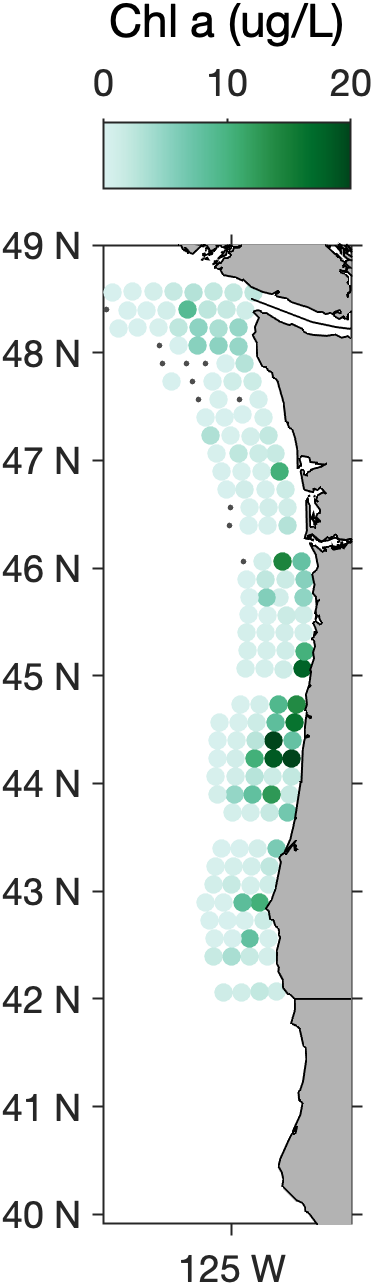
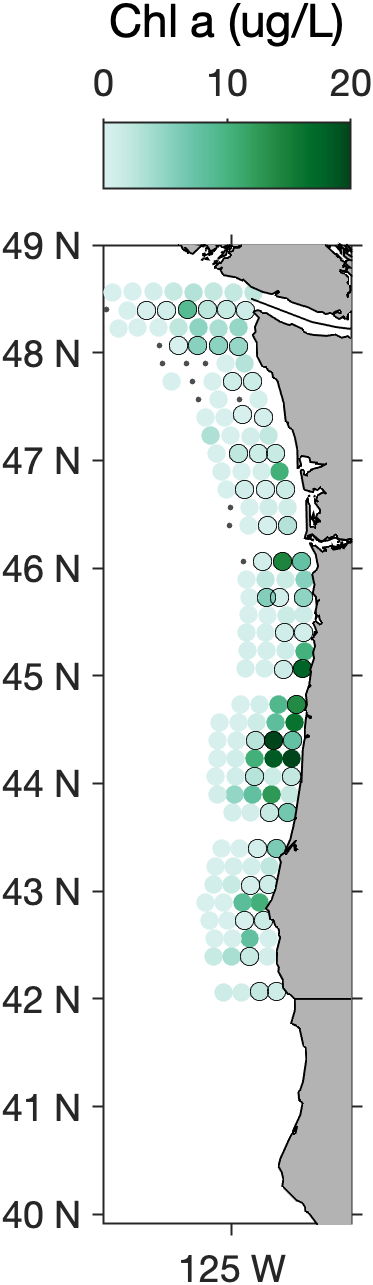
matched discrete samples

diff --git a/NOAA/Shimada/plot_matched_sample_grid.m b/NOAA/Shimada/plot_matched_sample_grid.m
@@ -1,4 +1,5 @@
-%% map underway environmental data along CCS
+%% plot matched sampling grid
+% requires input from match_discrete_samplegrid
 clear; %close all;
 filepath = '~/Documents/MATLAB/bloom-baby-bloom/';
 addpath(genpath('~/Documents/MATLAB/ifcb-analysis/')); % add new data to search path
@@ -6,35 +7,29 @@ addpath(genpath(filepath)); % add new data to search path
 
 %%%%USER
 yr=2019; % 2019; 2021
-fprint=0;
+fprint=1;
 leftsubplot=0; %special formatting for the leftmost subplot
 unit=0.06;
 
 %%%% load in discrete data
-load([filepath 'NOAA/Shimada/Data/HAB_merged_Shimada19-21'],'HA');
+%load([filepath 'NOAA/Shimada/Data/HAB_merged_Shimada19-21'],'HA');
+load([filepath 'NOAA/Shimada/Data/matched_discrete_samples_2019_2021'],'HA');
 HA((HA.lat<40),:)=[]; %remove CA stations
 data=HA.chlA_ugL; cax=[0 20]; ticks=[0,10,20]; label={'Chl a (ug/L)'}; name='CHL'; col=brewermap(256,'BuGn'); col(1:50,:)=[]; lim=.1;
-%data=HA.Nitrate_uM; cax=[0 48]; ticks=[0,24,48]; label={'NO_3^- (\muM)'}; name='NIT'; col=brewermap(256,'BuGn'); col(1:50,:)=[]; lim=0.6;
-%data=HA.Phosphate_uM; cax=[0 3]; ticks=[0,1.5,3]; label={'PO_4^{3−} (\muM)'}; name='PHS';col=brewermap(256,'BuGn'); col(1:50,:)=[]; lim=0.6;
-%data=HA.Silicate_uM; cax=[0 48]; ticks=[0,24,48]; label={'Si(OH)_4 (\muM)'}; name='SIL';col=brewermap(256,'BuGn'); col(1:50,:)=[]; lim=1.1;
-%data=HA.Silicate_uM; cax=[0 300]; ticks=[0,300]; label={'Si(OH)_4 (\muM)'}; name='SILHi';col=brewermap(256,'BuGn'); col(1:50,:)=[]; lim=1.1;
-%data=HA.pDA_pgmL; cax=[6.4 300]; ticks=[66,200,300]; lim=6.4; label={'pDA (pg/mL)'}; name='pDA'; c1=flipud(brewermap(100,'YlGn')); c1=c1(30:75,:); c2=(brewermap(220,'YlOrRd')); c2(1:30,:)=[]; c2(95:115,:)=[]; col=vertcat(c1,c2);
-%data=HA.SiNi; cax=[-1 1]; ticks=[-1 0 1]; label={'SiNi'}; name='SiNi';col=flipud(brewermap(256,'RdBu')); lim=-10;
-%data=HA.PhNi; cax=[-1 1]; ticks=[-1 0 1]; label={'PhNi'}; name='PhNi';col=flipud(brewermap(256,'RdBu')); lim=-10;
 
 if yr==2019    
     idx=find(HA.dt<datetime('01-Jan-2020') & HA.lat>42);
-    data=data(idx); lat = HA.lat(idx); lon = HA.lon(idx);  
+    data=data(idx); lat = HA.lat(idx); lon = HA.lon(idx); match=HA.match(idx); 
 elseif yr==2021
     idx=find(HA.dt>datetime('01-Jan-2020'));
-    data=data(idx); lat = HA.lat(idx); lon = HA.lon(idx);  
+    data=data(idx); lat = HA.lat(idx); lon = HA.lon(idx); match=HA.match(idx); 
 end
 
 if strcmp(name,'SiNi') || strcmp(name,'PhNi') 
     val=HA.Nitrate_uM; val=val(idx);
 end
 
-idx=isnan(data); data(idx)=[]; lat(idx)=[]; lon(idx)=[];
+idx=isnan(data); data(idx)=[]; lat(idx)=[]; lon(idx)=[]; match(idx)=[];
 lon=lon-unit;
 
 %%%% plot
@@ -55,6 +50,10 @@ end
 
 scatter(lon(ind),lat(ind),2,[.3 .3 .3],'o','filled'); hold on
 scatter(lon(~ind),lat(~ind),20,data(~ind),'filled'); hold on
+
+if yr==2019    
+    scatter(lon(match),lat(match),20,'k','o','linewidth',.2); hold on %match ups
+end
 
     colormap(col); clim(cax);
     axis([min(lon) max(lon) min(lat) max(lat)]);

diff --git a/NOAA/Shimada/match_discrete_samplegrid.m b/NOAA/Shimada/match_discrete_samplegrid.m
@@ -1,0 +1,30 @@
+%% match up discrete samples in 2019 and 2021, so same grid
+clear; %close all;
+filepath = '~/Documents/MATLAB/bloom-baby-bloom/';
+addpath(genpath('~/Documents/MATLAB/ifcb-analysis/')); % add new data to search path
+addpath(genpath(filepath)); % add new data to search path
+
+%%%% load in discrete data
+load([filepath 'NOAA/Shimada/Data/HAB_merged_Shimada19-21'],'HA');
+HA((HA.lat<42),:)=[]; %remove CA stations
+HA(isnan(HA.lon),:)=[];
+i19=HA.dt<datetime('01-Jan-2020'); H19=HA(i19,:); H21=HA(~i19,:);
+
+%%%% find index of 2019 data closest to 2021
+gap=NaN*H21.lat; %preallocate
+idx=NaN*H21.lat; %preallocate
+for i=1:length(idx)
+    [val,idx(i)] = min(distance(H21.lat(i),H21.lon(i),H19.lat,H19.lon)); %find location the minimum distance
+    gap(i) = deg2km(val); %convert to km
+end
+
+H19.match=0*H19.lat;
+H21.match=ones(size(idx));
+for i=1:length(idx)
+    H19.match(idx(i))=1;
+end
+
+HA=[H19;H21];
+HA.match=logical(HA.match);
+
+save([filepath 'NOAA/Shimada/Data/matched_discrete_samples_2019_2021.mat'],'HA');
